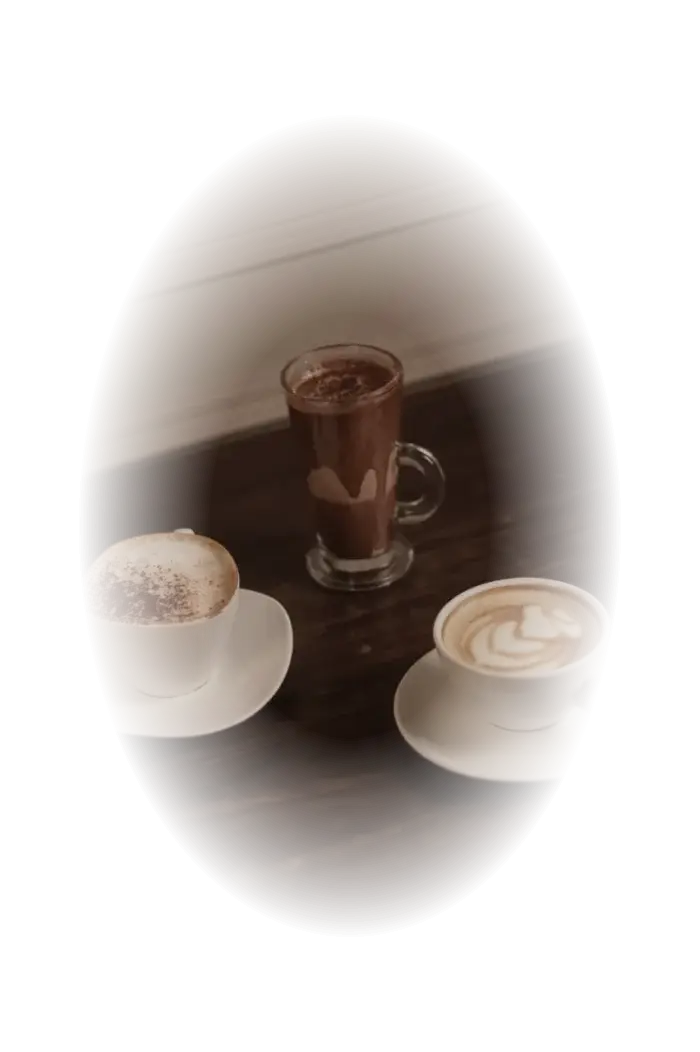
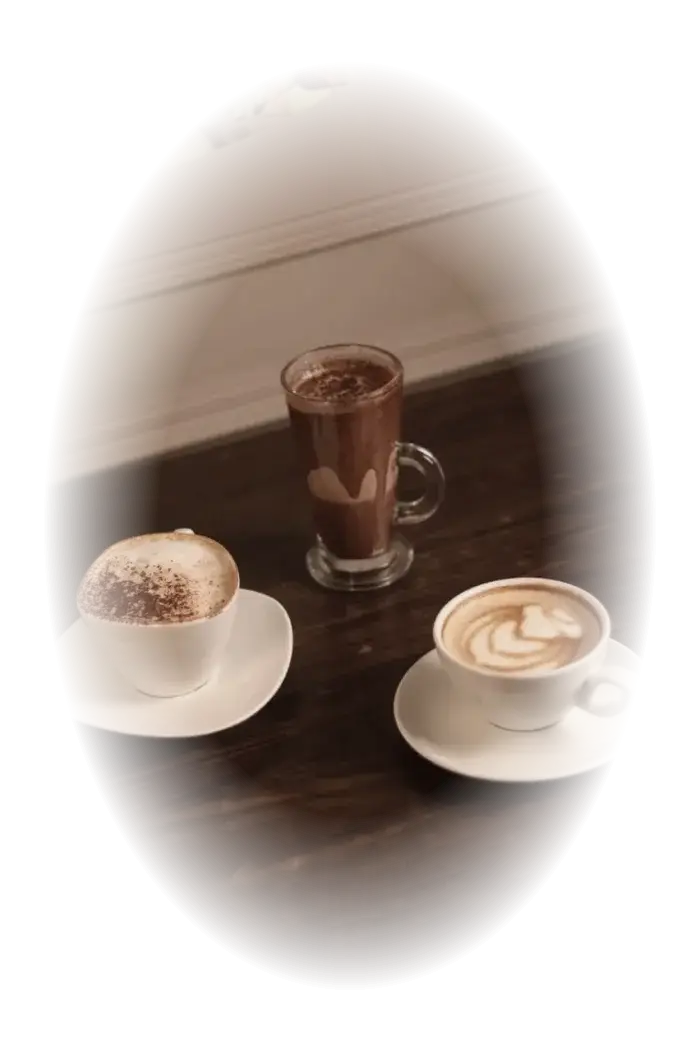
Décor plus lumineux, et un halo là où il gênait la lecture
Trois leviers plutôt qu'un seul, parce que la luminosité seule butait sur le
contraste :

- les panneaux sont repréparés plus clairs (0,78 → 0,95) et moins masqués : le
  fondu des bords commence à 55 % du rayon au lieu de 40 %, chaque photo montre
  donc bien plus d'elle-même ;
- le voile global s'allège (ink/52 → ink/42, dégradé central ink/28 → ink/18) ;
- `--color-fg-muted` monte encore (#a6bfae → #b8cdbf). C'est cette couleur qui
  plafonne tout : les titres en crème ont dix fois la marge nécessaire, le corps
  de texte à peine le minimum, et chaque cran gagné là autorise un fond
  sensiblement plus visible.

Cela n'a pas suffi. Un bloc résistait — le corps de texte de la section Brunch,
seul endroit où de longues phrases tombent sur la zone la plus claire d'un
cliché : 3,37:1. Plutôt que de rabaisser le décor de toute la page pour lui, la
colonne de texte reçoit un aplat sombre flouté. Sans bord visible : on ne voit
pas un cadre, seulement le fond qui s'assombrit là où il faut lire.

Son débord latéral s'arrête à la marge du conteneur. À 32 px il élargissait la
page sur un écran de téléphone — l'audit responsive l'a signalé sur les trois
largeurs mobiles, et l'isolement a montré que le décor, pourtant listé comme
coupable, n'y était pour rien : en `fixed inset-0` il ne fait que suivre une
page déjà trop large.

Vérifié : 186 textes sur six positions de défilement, desktop et mobile, aucun
sous le seuil WCAG ; aucun débordement horizontal de 375 à 1920 ; 60/60
[…]

diff --git a/src/components/site/story-sections.tsx b/src/components/site/story-sections.tsx
@@ -75,6 +75,7 @@ function StoryBlock({
 
           <div
             className={cn(
+              'relative',
               hasImage
                 ? imageFirst
                   ? 'lg:order-2'
@@ -82,6 +83,20 @@ function StoryBlock({
                 : 'max-w-3xl',
             )}
           >
+            {/* Halo sombre sous la colonne de texte.
+                C'est ici que de longues phrases tombent sur le décor photo du
+                site, et le point le plus clair d'un cliché y faisait descendre
+                le corps de texte à 3,4:1. Un aplat flouté n'a pas de bord
+                visible — on ne voit pas un cadre, seulement le fond qui
+                s'assombrit là où il faut lire — et il évite de rabaisser le
+                décor sur toute la page pour un seul bloc.
+                Le débord latéral s'arrête à la marge du conteneur (20 px) :
+                au-delà, il élargissait la page sur un écran de téléphone. */}
+            <div
+              aria-hidden="true"
+              className="pointer-events-none absolute -inset-x-5 -inset-y-10 -z-10 rounded-[3rem] bg-ink/70 blur-2xl sm:-inset-x-8"
+            />
+
             {section.eyebrow && (
               <Reveal>
                 <p className="mb-4 flex items-center gap-3 font-serif text-sm italic text-lime">

diff --git a/src/app/globals.css b/src/app/globals.css
@@ -23,11 +23,13 @@
 
   /* — Texte (contrastes vérifiés sur --color-ink : 13,6 / 12,3 / 7,1 / 5,1) — */
   --color-fg: #f2f5e9;
-  /* Éclairci d'un cran (#9db8a6 → #a6bfae) : le décor photo passe désormais
-     derrière le texte courant, et sur la zone la plus claire d'un cliché ce
-     gris-vert tombait à 4,40:1. Le remonter coûte moins au regard que
-     d'assombrir la salle que l'on cherchait justement à rendre visible. */
-  --color-fg-muted: #a6bfae;
+  /* Éclairci deux fois (#9db8a6 → #a6bfae → #b8cdbf) : le décor photo passe
+     derrière le texte courant, et c'est cette couleur-là qui plafonne sa
+     luminosité — le crème des titres a treize fois le contraste nécessaire, le
+     gris-vert du corps de texte à peine le minimum. Chaque cran gagné ici
+     autorise un fond nettement plus visible, ce qui coûte moins au regard que
+     d'assombrir la salle qu'on cherche justement à montrer. */
+  --color-fg-muted: #b8cdbf;
   --color-fg-subtle: #7e9e89;
   --color-on-lime: #0a2b1e;
 

diff --git a/src/components/three/ambient-room.tsx b/src/components/three/ambient-room.tsx
@@ -141,8 +141,8 @@ export function AmbientRoom() {
           fait à l'œil : il est descendu jusqu'au point où la salle se voit
           nettement, puis vérifié en mesurant le contraste réel sous chaque
           glyphe de la page. */}
-      <div className="absolute inset-0 bg-ink/52" />
-      <div className="absolute inset-0 bg-gradient-to-b from-ink via-ink/28 to-ink" />
+      <div className="absolute inset-0 bg-ink/42" />
+      <div className="absolute inset-0 bg-gradient-to-b from-ink via-ink/18 to-ink" />
       {/* Les clichés sont chauds et beiges ; désaturés, ils tiraient vers
           l'olive. Ce lavis les ramène dans le vert de la marque. */}
       <div className="absolute inset-0 bg-lime/[0.05] mix-blend-overlay" />

diff --git a/public/photos/README.md b/public/photos/README.md
@@ -17,7 +17,7 @@ Il était d'abord appliqué par le navigateur (`filter` + `mask-image`), ce qui 
 lui faisait recalculer sur quatre calques plein écran à chaque image affichée.
 Le faire une fois à la préparation ne coûte plus rien ensuite.
 
-Treize panneaux, 421 Ko en tout — mais seulement quatre chargés à la fois, ceux
+Treize panneaux, 545 Ko en tout — mais seulement quatre chargés à la fois, ceux
 de la scène affichée.
 
 ### Les scènes
@@ -53,20 +53,28 @@ const NAMES = ['salle-alcoves','salle-profondeur','salle-medaillon','salle-banqu
   const { width, height } = r.info;
   const mask = Buffer.from('<svg xmlns=\"http://www.w3.org/2000/svg\" width=\"' + width + '\" height=\"' + height + '\">' +
     '<defs><radialGradient id=\"g\" cx=\"50%\" cy=\"50%\" r=\"50%\">' +
-    '<stop offset=\"40%\" stop-color=\"#fff\" stop-opacity=\"1\"/>' +
-    '<stop offset=\"78%\" stop-color=\"#fff\" stop-opacity=\"0\"/>' +
+    '<stop offset=\"55%\" stop-color=\"#fff\" stop-opacity=\"1\"/>' +
+    '<stop offset=\"88%\" stop-color=\"#fff\" stop-opacity=\"0\"/>' +
     '</radialGradient></defs><rect width=\"' + width + '\" height=\"' + height + '\" fill=\"url(#g)\"/></svg>');
-  await sharp(r.data).modulate({ saturation: 0.5, brightness: 0.78 }).linear(1.03, -3)
+  await sharp(r.data).modulate({ saturation: 0.58, brightness: 0.95 }).linear(1.03, -3)
     .ensureAlpha().composite([{ input: mask, blend: 'dest-in' }])
     .webp({ quality: 70, alphaQuality: 78 }).toFile('public/photos/room/' + name + '.webp');
 } })();
 "
 ```
 
-⚠ En changeant `brightness`, vérifie le contraste du texte : le décor passe
-derrière toute la page. La mesure est décrite dans le message du commit qui a
-introduit les scènes — deux captures, l'une avec le texte transparent, puis
-comparaison sous chaque glyphe.
+⚠ En changeant `brightness` ou le masque, vérifie le contraste du texte : le
+décor passe derrière toute la page, et c'est le corps de texte
+(`--color-fg-muted`) qui plafonne — pas les titres, qui ont dix fois la marge
+nécessaire. Trois réglages se répondent :
+
+1. la luminosité cuite dans les panneaux ;
+2. le voile global (`bg-ink/…` dans `ambient-room.tsx`) ;
+3. le halo local sous les colonnes de texte (`story-sections.tsx`), qui permet
+   de garder le reste de la page lumineux sans sacrifier la lecture.
+
+La mesure : deux captures du même écran, l'une avec le texte rendu transparent,
+puis comparaison de la couleur du texte au fond exact sous chaque glyphe.
 
 ## Les autres fichiers
 
